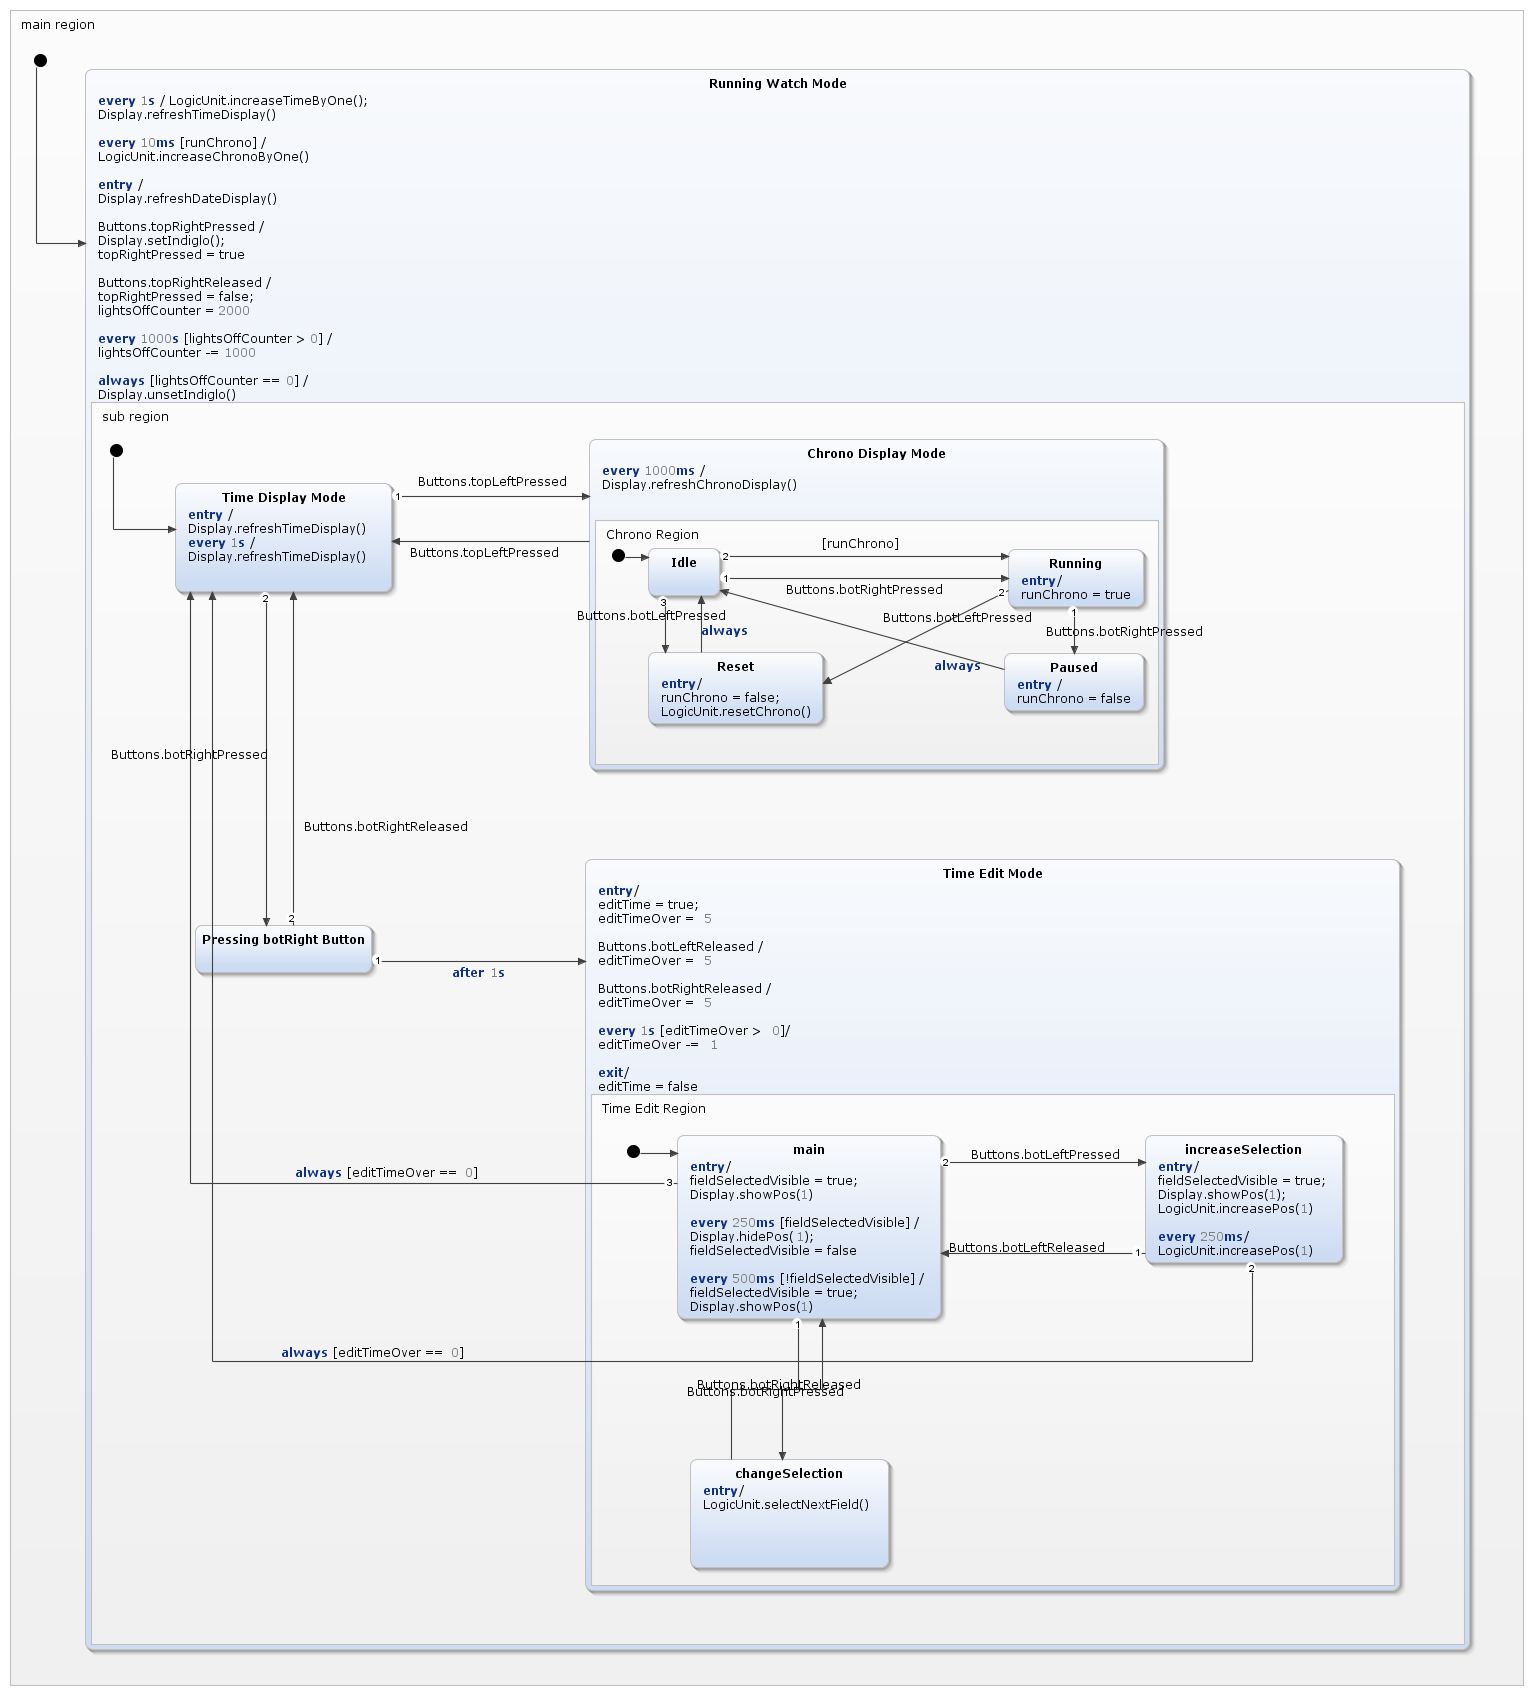
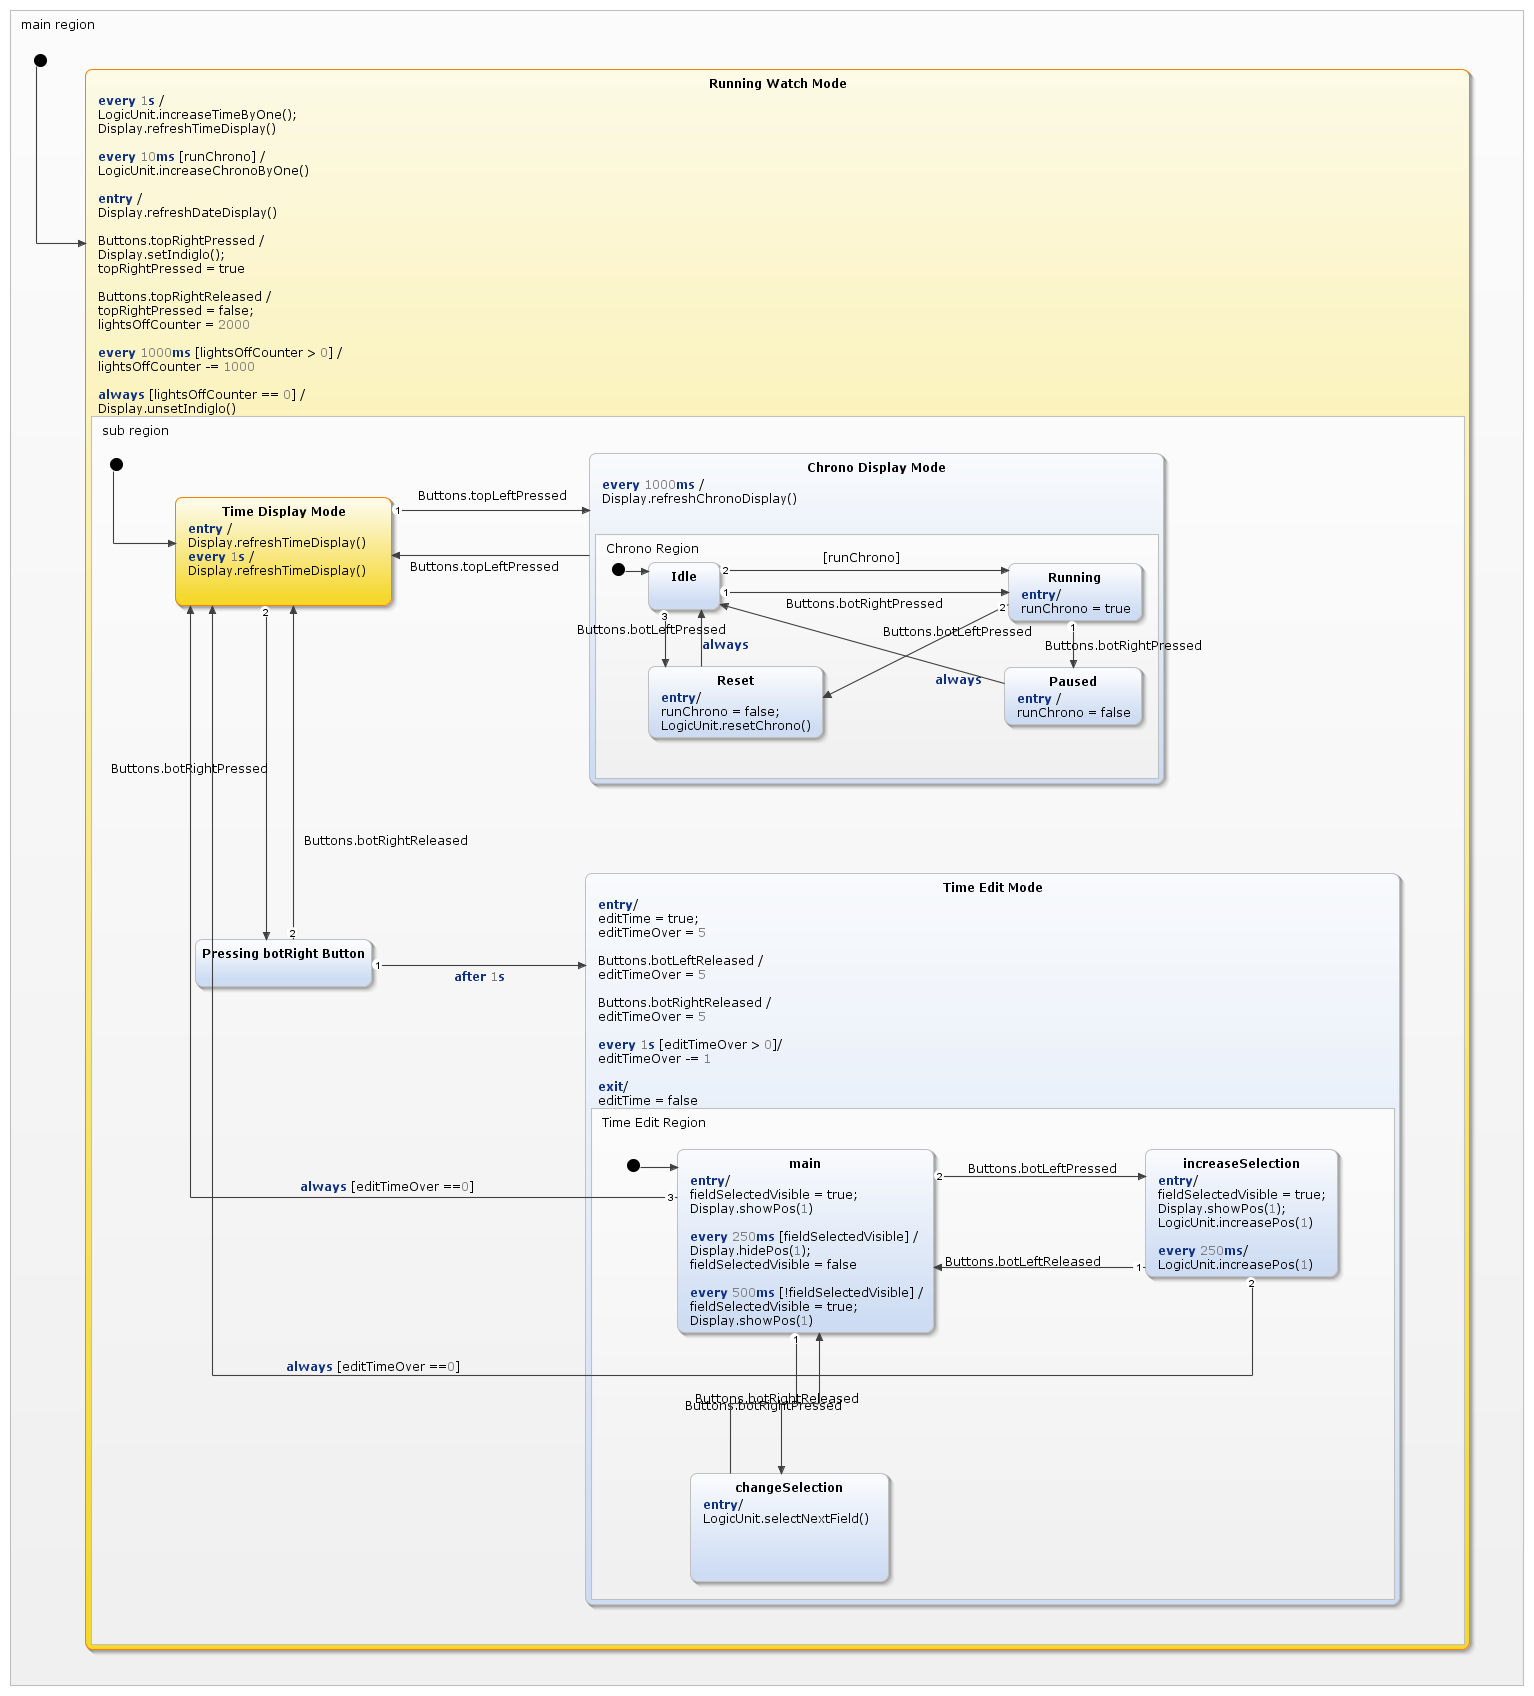
bug fix on lightCounter logic
every 1000ms [lightsOffCounter > 0] /
lightsOffCounter -= 1000

diff --git a/dwatch/src-gen/dwatch/digitalwatch/DigitalwatchStatemachine.java b/dwatch/src-gen/dwatch/digitalwatch/DigitalwatchStatemachine.java
@@ -423,7 +423,7 @@ public class DigitalwatchStatemachine implements IDigitalwatchStatemachine {
 		
 		timer.setTimer(this, 1, 10, true);
 		
-		timer.setTimer(this, 2, (1000 * 1000), true);
+		timer.setTimer(this, 2, 1000, true);
 		
 		sCIDisplay.operationCallback.refreshDateDisplay();
 	}
